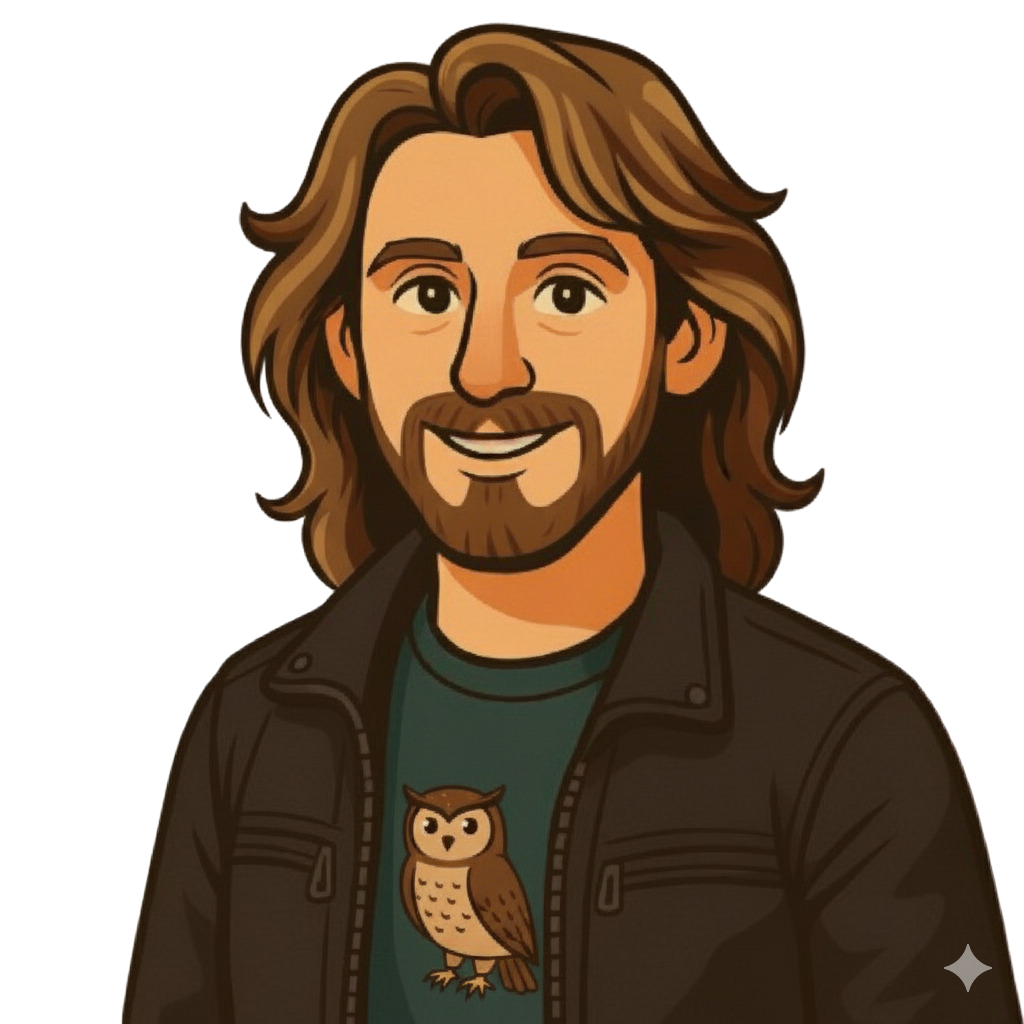
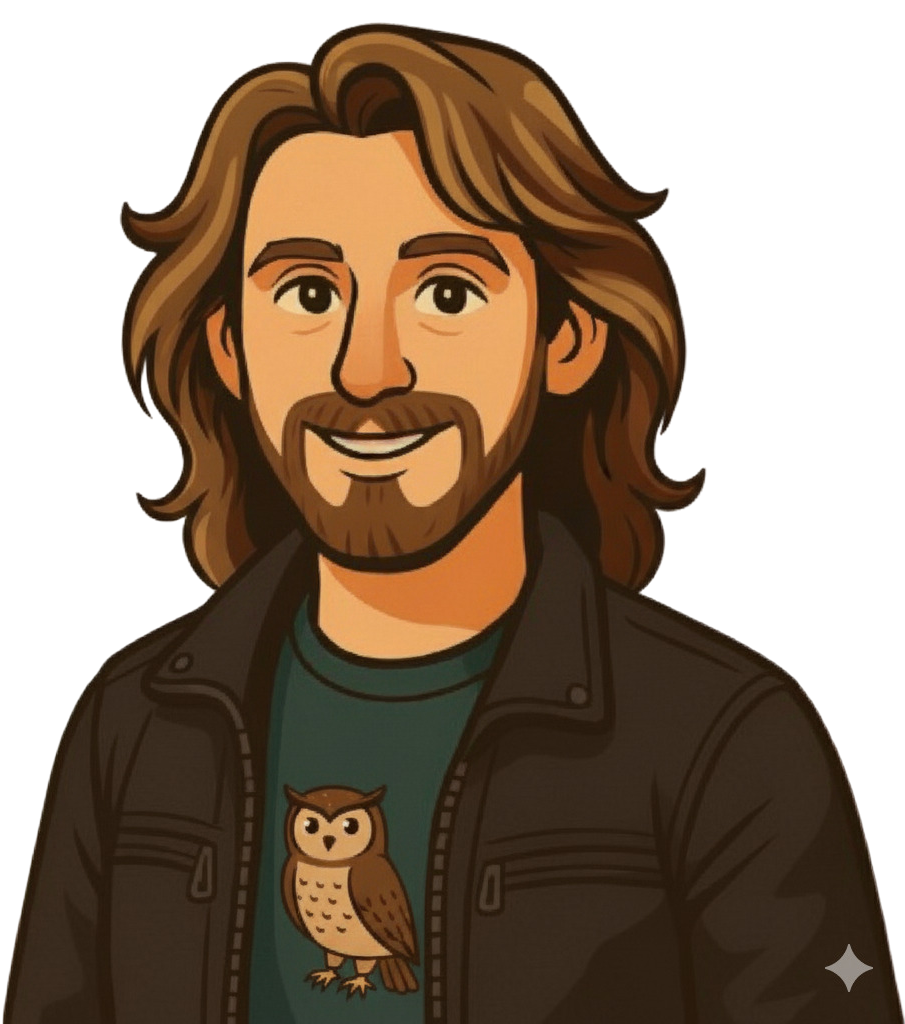
chore: add images to use in contactSection

diff --git a/src/Components/ContactSection/ContactSection.js b/src/Components/ContactSection/ContactSection.js
@@ -1,0 +1,29 @@
+
+import Typhografy from "../typhografy/Typhografy"
+import useScrollObserverAnimation from "../../Hooks/useScrollObserverAnimation";
+import useActiveSectionObserver from "../../Hooks/IsActiveSection";
+
+const ContactSection = (props) => {
+  const { ref : visibilityRef, isVisible } = useScrollObserverAnimation()
+  const {id,setActiveSection} = props
+  const activeRef = useActiveSectionObserver(id, setActiveSection)
+
+ 
+  const combinedRef = (element) => {
+    visibilityRef.current = element
+    activeRef.current = element
+  }
+
+
+  return (
+    <section  id={id} ref={combinedRef} class={` scroll-mt-[10vh] h-[90dvh] landscape:md:scroll-mt-[15vh] landscape:lg:scroll-mt-[10%] landscape:md:h-[250dvh] landscape:lg:h-[90dvh] lg:scroll-mt-[10%] lg:h-[90dvh] bg-brand-green w-full  flex flex-col items-center justify-between `}>
+      <Typhografy variant="h2" class={`text-6xl mt-4 font-primary text-white w-full font-bold text-center ${isVisible ? "animate-slide-up" : null} `} >Contato</Typhografy>
+      <div class={`w-[calc(100%-2rem)] h-full  xl:h-[90%] flex-col lg:flex-row flex items-center lg:justify-between ${isVisible ? "animate-slide-up" : null}`}>
+        
+      </div>
+      
+    </section>
+  )
+}
+
+export default ContactSection

diff --git a/src/Components/ContactSection/ContactForm/ContactForm.js b/src/Components/ContactSection/ContactForm/ContactForm.js
@@ -1,0 +1,10 @@
+
+
+const ContactForm = (props) => {
+    
+    return(
+        
+    )
+}
+
+export default ContactForm
